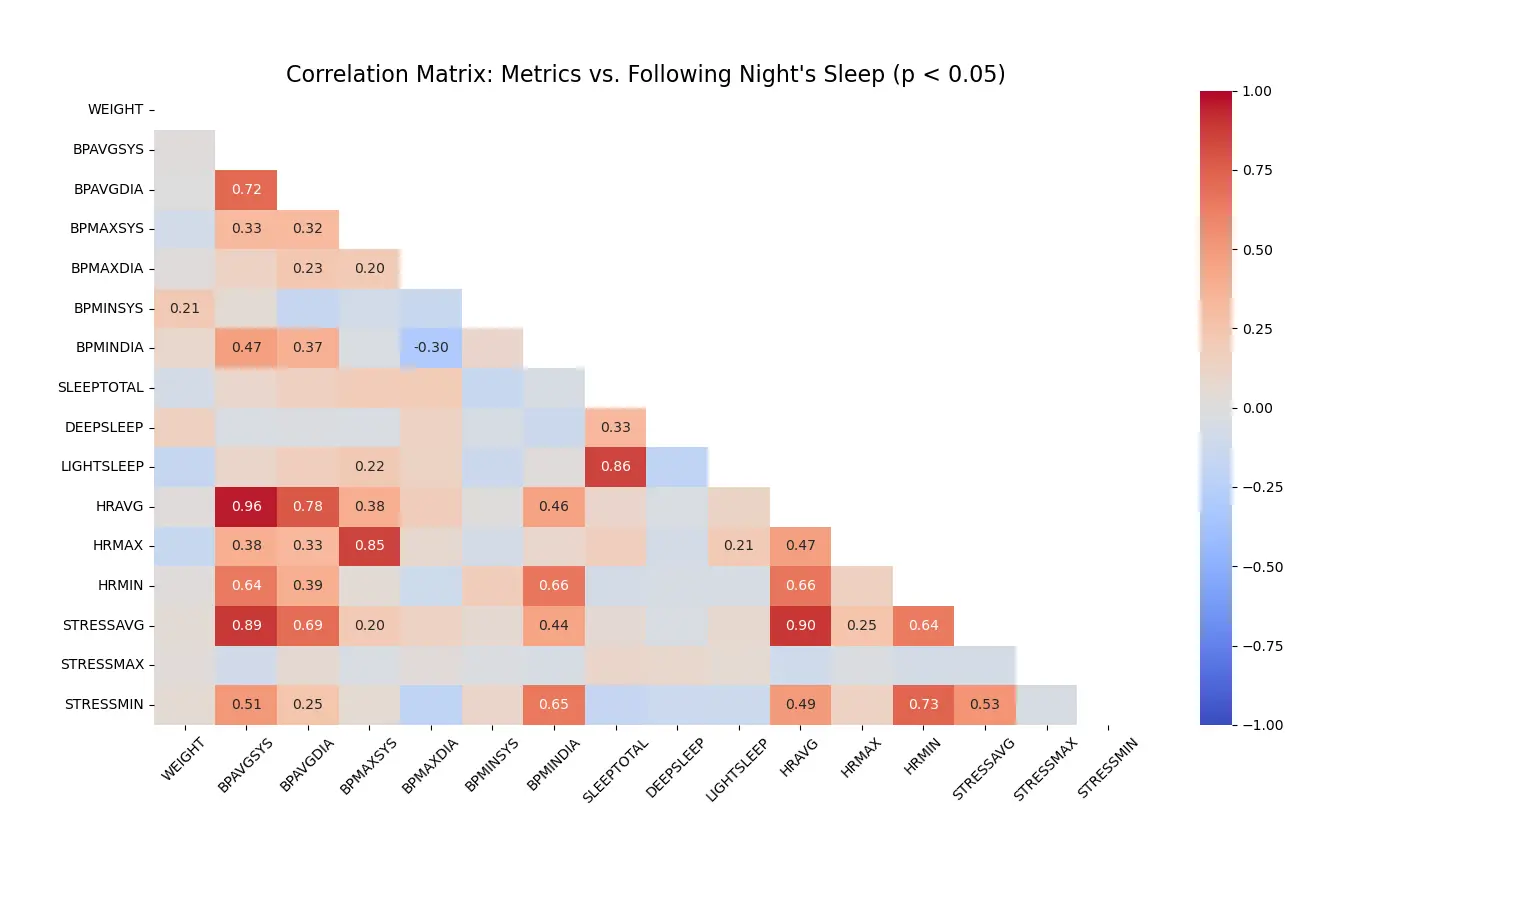
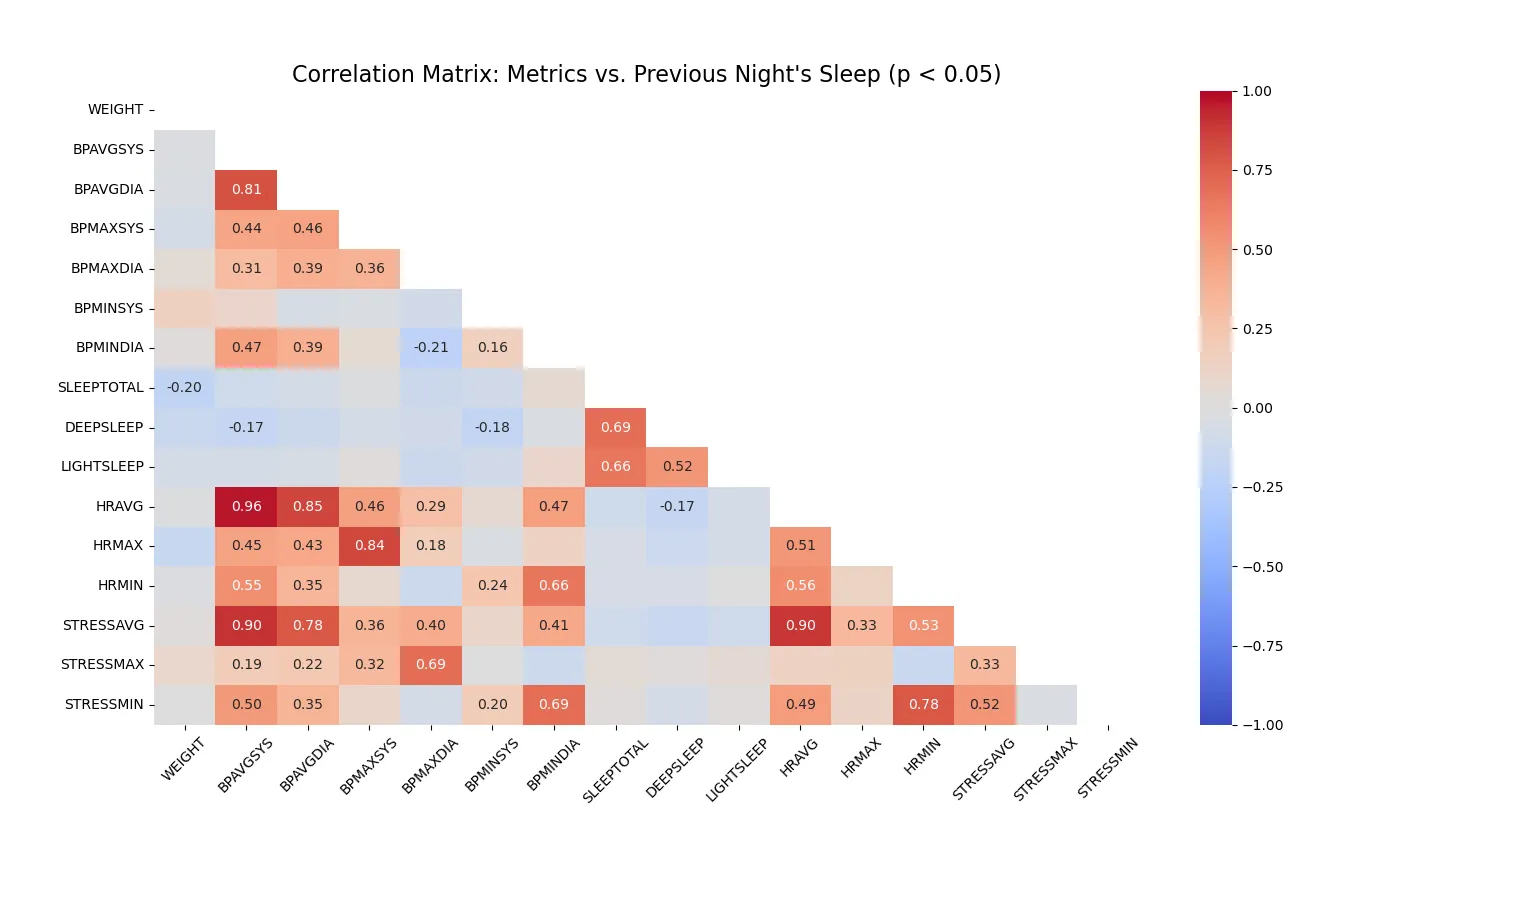
update health project

diff --git a/health.html b/health.html
@@ -154,13 +154,11 @@
         
         <img src="/images/heatmap_normalized.webp" alt="The colors are normalized by row based on the value inside the box (the highest numbers are yellow, the lowest numbers are dark blue)">
         
-        <p>Then the following is produced. This is a correlation table. The darker the red color, the higher the positive correlation. The darker the blue color, the lower the negative correlation. As can be seen, there is a very strong positive correlation between heart rate, stress, and blood pressure. These are apparently very tightly linked physiological indicators. The colors are shown for all possible correlations in the table but the numbers are only included if they are statistically significant:</p>
+        <p>Then the following is produced. This is a correlation table. The darker the red color, the stronger the positive correlation. The darker the blue color, the stronger the negative correlation. As can be seen, there is a very strong positive correlation between heart rate, stress, and blood pressure. These are apparently very tightly linked physiological indicators. The colors are shown for all possible correlations in the table but the numbers are only included if they are statistically significant:</p>
         
         <img src="/images/heatmap_correlations.webp" alt="These are the correlations of the variables with each other, the more red the higher positive, the more blue the lower negative">
-        
-        <p>When the previous night's sleep data is checked for relationship to health markers, something significant happens. The effect of sleep becomes more manifest. There is a modest negative correlation between previous night's sleep and many of the health markers, including stress levels and blood pressure. This is not manifest in the previous correlation table because this table is based on <em>that night's</em> sleep, in other words, it checks to see how does the day's stress and blood pressure affect sleep that night. The following graph checks to see how does the previous night affect the following day's blood pressure and stress level, and in this there is a modest but significant correlation.</p>
-        
-        <img src="/images/correlation_matrix_previous_night.webp" alt="Correlations for previous night's sleep">
+		
+		<p>There are some interesting negative correlations that have arisen since the last time I ran this script that are significant, including one with total sleep and weight, and with deep sleep and blood pressure and also heart rate</p>
         
         <p>Lastly, a table is produced with ranges of the variables (this tells me how my health markers vary somewhat) and some other useful information. To get the variance throughout the day, actually looking at the data in the software application on my smart phone is necessary and predictable trends are manifest, stress rises when I wake up, reaches a peak, and decreases towards bed time. Blood pressure and heart rate share a similar pattern. If I get sick or have a night of poor sleep, stress, blood pressure, and heart rate tend to be higher:</p>
         <br>
